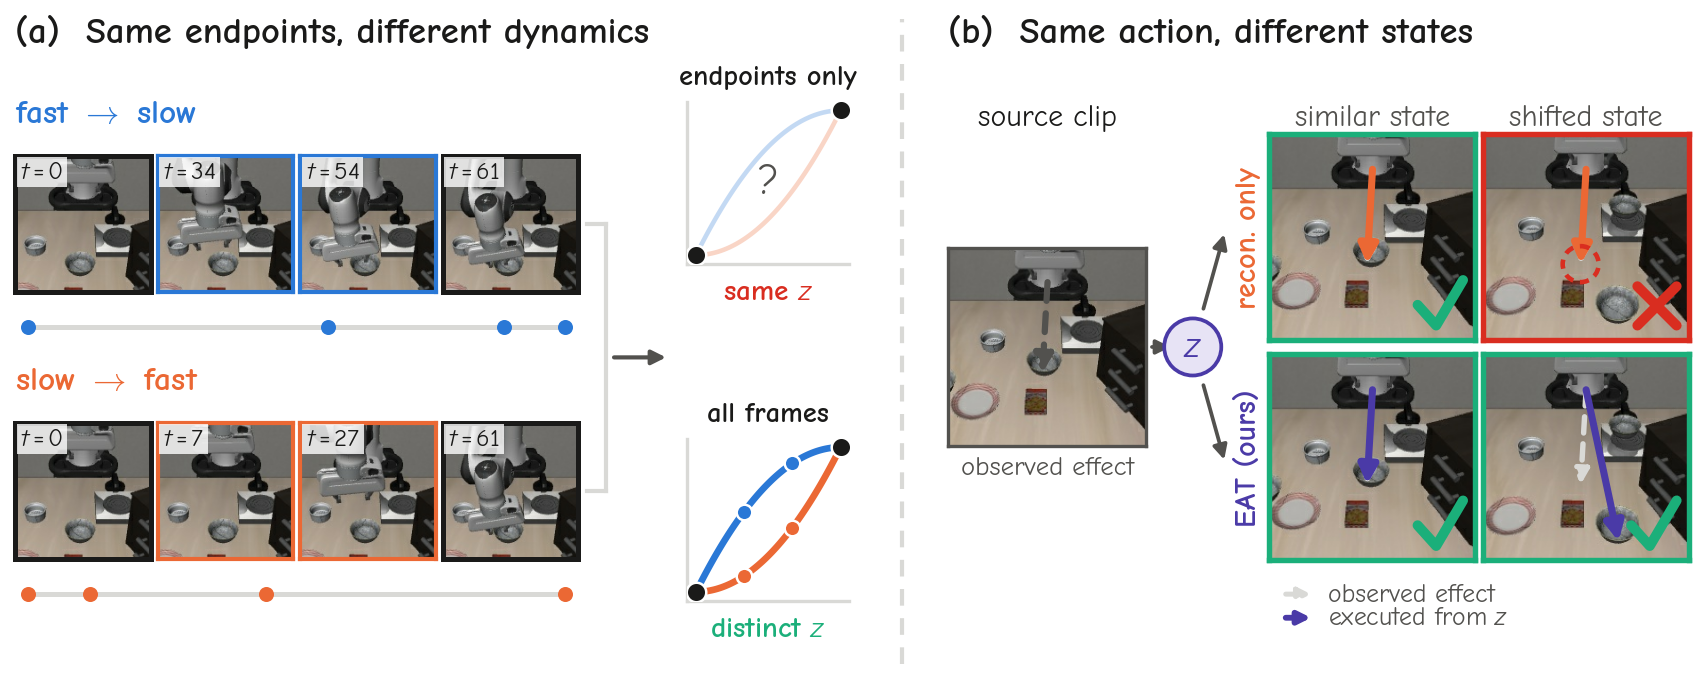
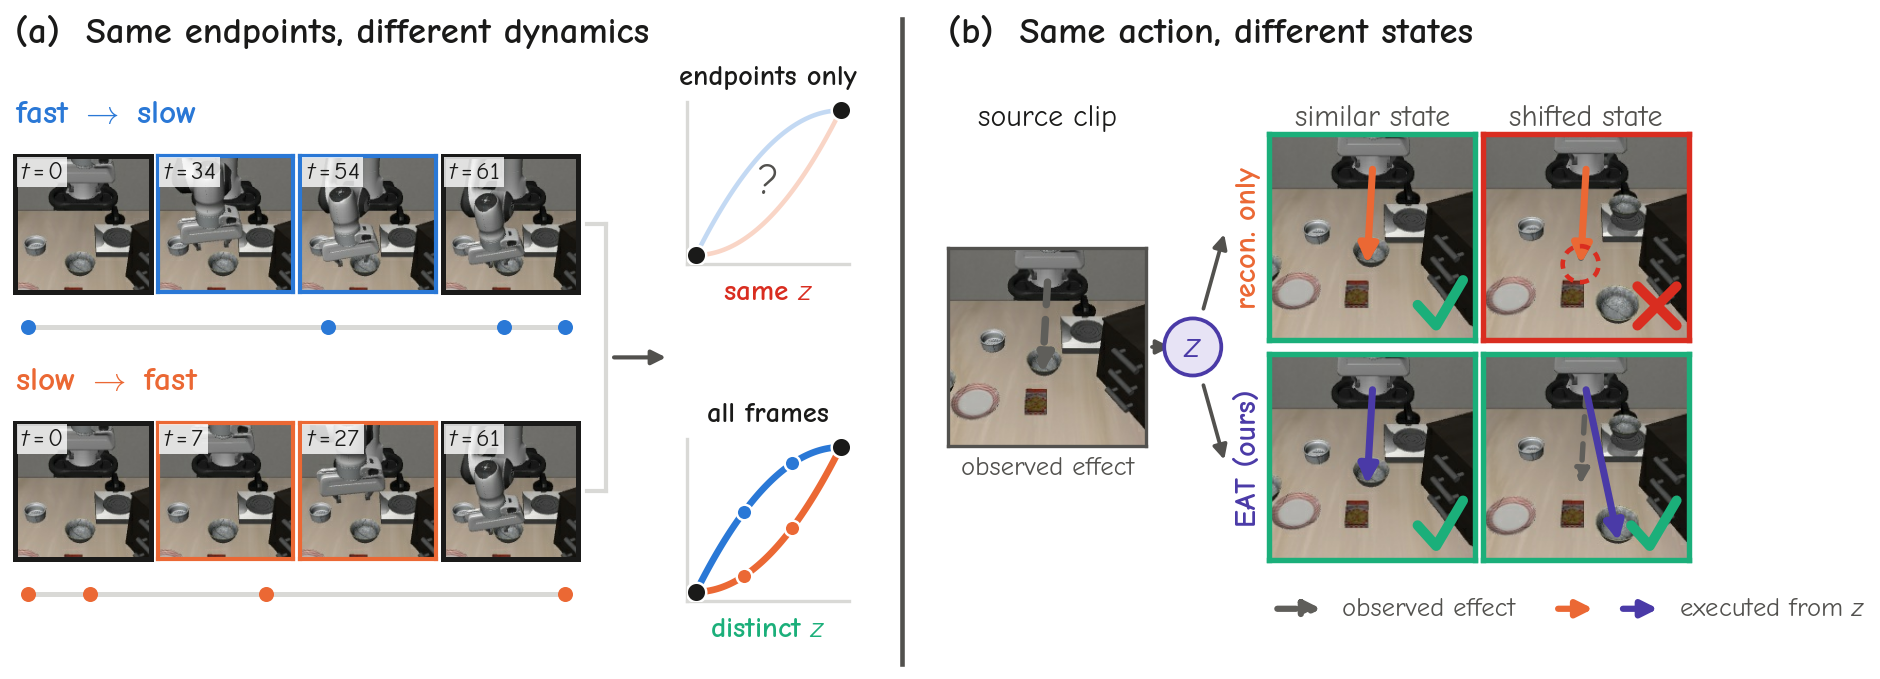
figures: solid divider between teaser panels; legend names the orange arrow
The dashed light divider did not separate the panels; it is now a solid dark rule.  The legend only named
grey (observed) and violet (executed), leaving the orange arrows unexplained: it now shows both row colours
under "executed from z", sits in figure coordinates under the grid, and the observed-effect arrows share one
darker grey so the legend matches what is in the cells.

Claude-Session: https://claude.ai/code/session_01D41cpGfwM76yTZbfdphopa

diff --git a/acdc_la/figures/make_teaser_figure.py b/acdc_la/figures/make_teaser_figure.py
@@ -20,6 +20,7 @@ import numpy as np
 from matplotlib.patches import Circle, FancyArrowPatch, FancyBboxPatch, Wedge
 
 INK, INK2, GRID = "#1a1a19", "#52514e", "#d9d9d6"
+OBS = "#5f5e5a"                                              # the observed (source) effect, everywhere
 FAST, SLOW = "#2a78d6", "#eb6834"
 OURS, BAD, OK, RECON = "#4a3aa7", "#d92d20", "#1baf7a", "#eb6834"
 
@@ -164,7 +165,7 @@ def panel_b(fig, gs):
     d = fig.add_subplot(cells[1:3, 0]); d.axis("off")              # the clip whose latent is transported
     a = d.inset_axes([0.0, 0.27, 1.0, 0.46])
     _img(a, _frames(DONOR)[0], CROP_B, edge=INK2, lw=0.8)
-    _arrow(a, GRIP, BOWL[DONOR], INK2, CROP_B, ls=(0, (3, 2)), lw=1.5)
+    _arrow(a, GRIP, BOWL[DONOR], OBS, CROP_B, ls=(0, (3, 2)), lw=1.8)
     a.text(0.5, -0.05, "observed effect", transform=a.transAxes, fontsize=6.4, color=INK2, ha="center", va="top")
     zc = fig.add_subplot(cells[1:3, 1]); zc.axis("off"); zc.set_xlim(0, 1); zc.set_ylim(0, 1)
     zc.text(0.5, 0.5, "$z$", fontsize=8.6, ha="center", va="center", color=OURS, zorder=4, transform=zc.transAxes,
@@ -174,28 +175,34 @@ def panel_b(fig, gs):
                                      mutation_scale=7, color=INK2, lw=0.9, transform=zc.transAxes, clip_on=False))
     zc.add_patch(FancyArrowPatch((-0.20, 0.5), (0.30, 0.5), arrowstyle="-|>", mutation_scale=7, color=INK2,
                                  lw=0.9, transform=zc.transAxes, clip_on=False))
+    cell_axes = []
     for r, (name, col) in enumerate((("recon. only", RECON), ("EAT (ours)", OURS))):
         lax = fig.add_subplot(cells[r + 1, 2]); lax.axis("off")
         lax.text(0.5, 0.5, name, rotation=90, va="center", ha="center", fontsize=7.2, color=col,
                  fontweight="bold", transform=lax.transAxes)
         for j, tag in ((3, SIMILAR), (4, SHIFTED)):
             ax = fig.add_subplot(cells[r + 1, j])
+            if r == 1 and j == 3: cell_axes.append(ax)
             fail = (r == 0 and tag == SHIFTED)
             _img(ax, _frames(tag)[0], CROP_B, edge=BAD if fail else OK, lw=1.3)
-            _arrow(ax, GRIP, BOWL[DONOR], GRID, CROP_B, ls=(0, (3, 2)), lw=1.3, ms=7)
+            _arrow(ax, GRIP, BOWL[DONOR], OBS, CROP_B, ls=(0, (3, 2)), lw=1.3, ms=7)
             target = BOWL[DONOR] if r == 0 else BOWL[tag]
             _arrow(ax, GRIP, target, col, CROP_B)
             if fail:
                 ax.add_patch(Circle(_pt(BOWL[DONOR], CROP_B), 17, fill=False, edgecolor=BAD, lw=1.1,
                                     ls=(0, (2, 1.5)), zorder=6))
             _mark(ax, not fail)
-    lg = fig.add_subplot(cells[3, 3:]); lg.axis("off"); lg.set_xlim(0, 1); lg.set_ylim(0, 1)
-    lg.add_patch(FancyArrowPatch((0.02, 0.35), (0.12, 0.35), arrowstyle="-|>", mutation_scale=6, color=GRID,
-                                 lw=1.2, linestyle=(0, (3, 2))))
-    lg.text(0.14, 0.35, "observed effect", fontsize=6.2, color=INK2, va="center")
-    lg.add_patch(FancyArrowPatch((0.02, -0.35), (0.12, -0.35), arrowstyle="-|>", mutation_scale=6, color=OURS,
-                                 lw=1.4, clip_on=False))
-    lg.text(0.14, -0.35, "executed from $z$", fontsize=6.2, color=INK2, va="center")
+    # legend in figure coordinates under the grid: dashed = observed, solid = executed from z (row colour)
+    fig.canvas.draw()
+    p0 = cell_axes[0].get_position(); y = p0.y0 - 0.075; x = p0.x0
+    def arr(x0, x1, c, ls="-"):
+        fig.add_artist(FancyArrowPatch((x0, y), (x1, y), arrowstyle="-|>", mutation_scale=8, color=c, lw=1.5,
+                                       linestyle=ls, transform=fig.transFigure))
+    arr(x, x + 0.028, OBS, (0, (3, 2)))
+    fig.text(x + 0.034, y, "observed effect", fontsize=6.4, color=INK2, va="center")
+    x2 = x + 0.130
+    arr(x2, x2 + 0.024, RECON); arr(x2 + 0.030, x2 + 0.054, OURS)
+    fig.text(x2 + 0.060, y, "executed from $z$", fontsize=6.4, color=INK2, va="center")
     return a
 
 
@@ -211,7 +218,7 @@ def teaser(out):
     right_a = max(inv.transform(t.get_window_extent(r))[1, 0] for ax in fig.axes for t in ax.texts
                   if inv.transform(t.get_window_extent(r))[1, 0] < xb0)
     xd = (right_a + xb0) / 2
-    fig.add_artist(plt.Line2D([xd, xd], [0.02, 1.02], color=GRID, lw=1.0, ls=(0, (4, 3))))
+    fig.add_artist(plt.Line2D([xd, xd], [0.02, 1.02], color=INK2, lw=1.1))
     top = 0.975                                                     # titles start where each panel's frames start
     fig.text(fa.get_position().x0, top, "(a)  Same endpoints, different dynamics", fontsize=8.8,
              fontweight="bold", va="bottom")
